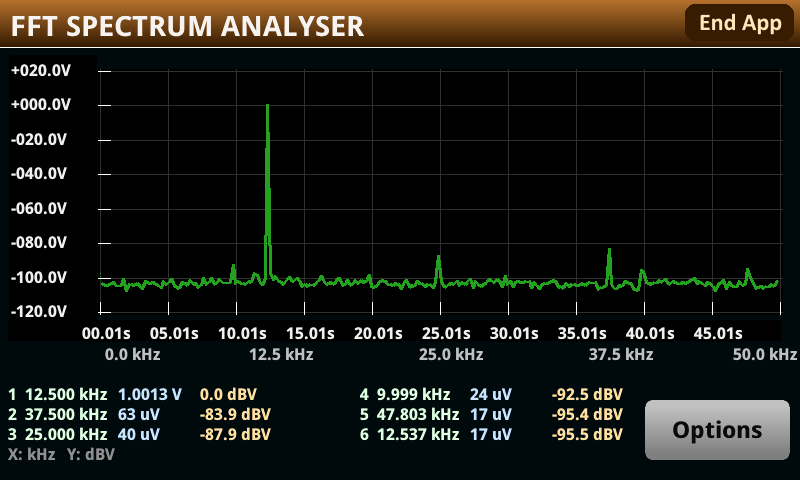
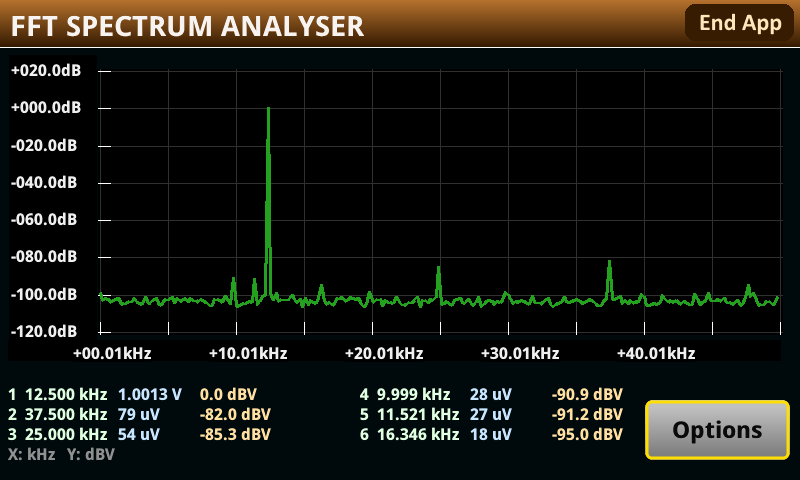
Retake the 16384 screenshot, which still showed the old axes
Read off the instrument at the time of capture: 16384 samples, 6.1035 Hz bins, a 2.1 s
timer period -- which is the period the app measured for itself rather than one the
quantisation left, and matches the 2.15 s in the measured table to within a tick.

The 12.5 kHz tone's second and third harmonics resolve as separate spikes at 25.000 and
37.500 kHz, which is the point the figure makes against the 512-sample shot at the top of
the manual, where the same tone is one 195 Hz-wide lump.

diff --git a/docs/MANUAL.md b/docs/MANUAL.md
@@ -184,7 +184,8 @@ Three consequences, and the first is the point of it:
 
 ![The spectrum screen at 16384 samples: the 12.5 kHz tone as a narrow spike at 0.0 dBV, its second
 and third harmonics resolved as separate spikes at 25.000 and 37.500 kHz, and the noise floor drawn
-as a single line near -100 dBV](manual-spectrum-16384.png)
+as a single line near -100 dB. The axes are the firmware's own, +020.0dB to -120.0dB and +00.01kHz to
++40.01kHz](manual-spectrum-16384.png)
 
 Compare the 512-sample shot at the top of this manual, where the same tone is a single 195 Hz-wide
 lump and the harmonics are lost in the floor.
